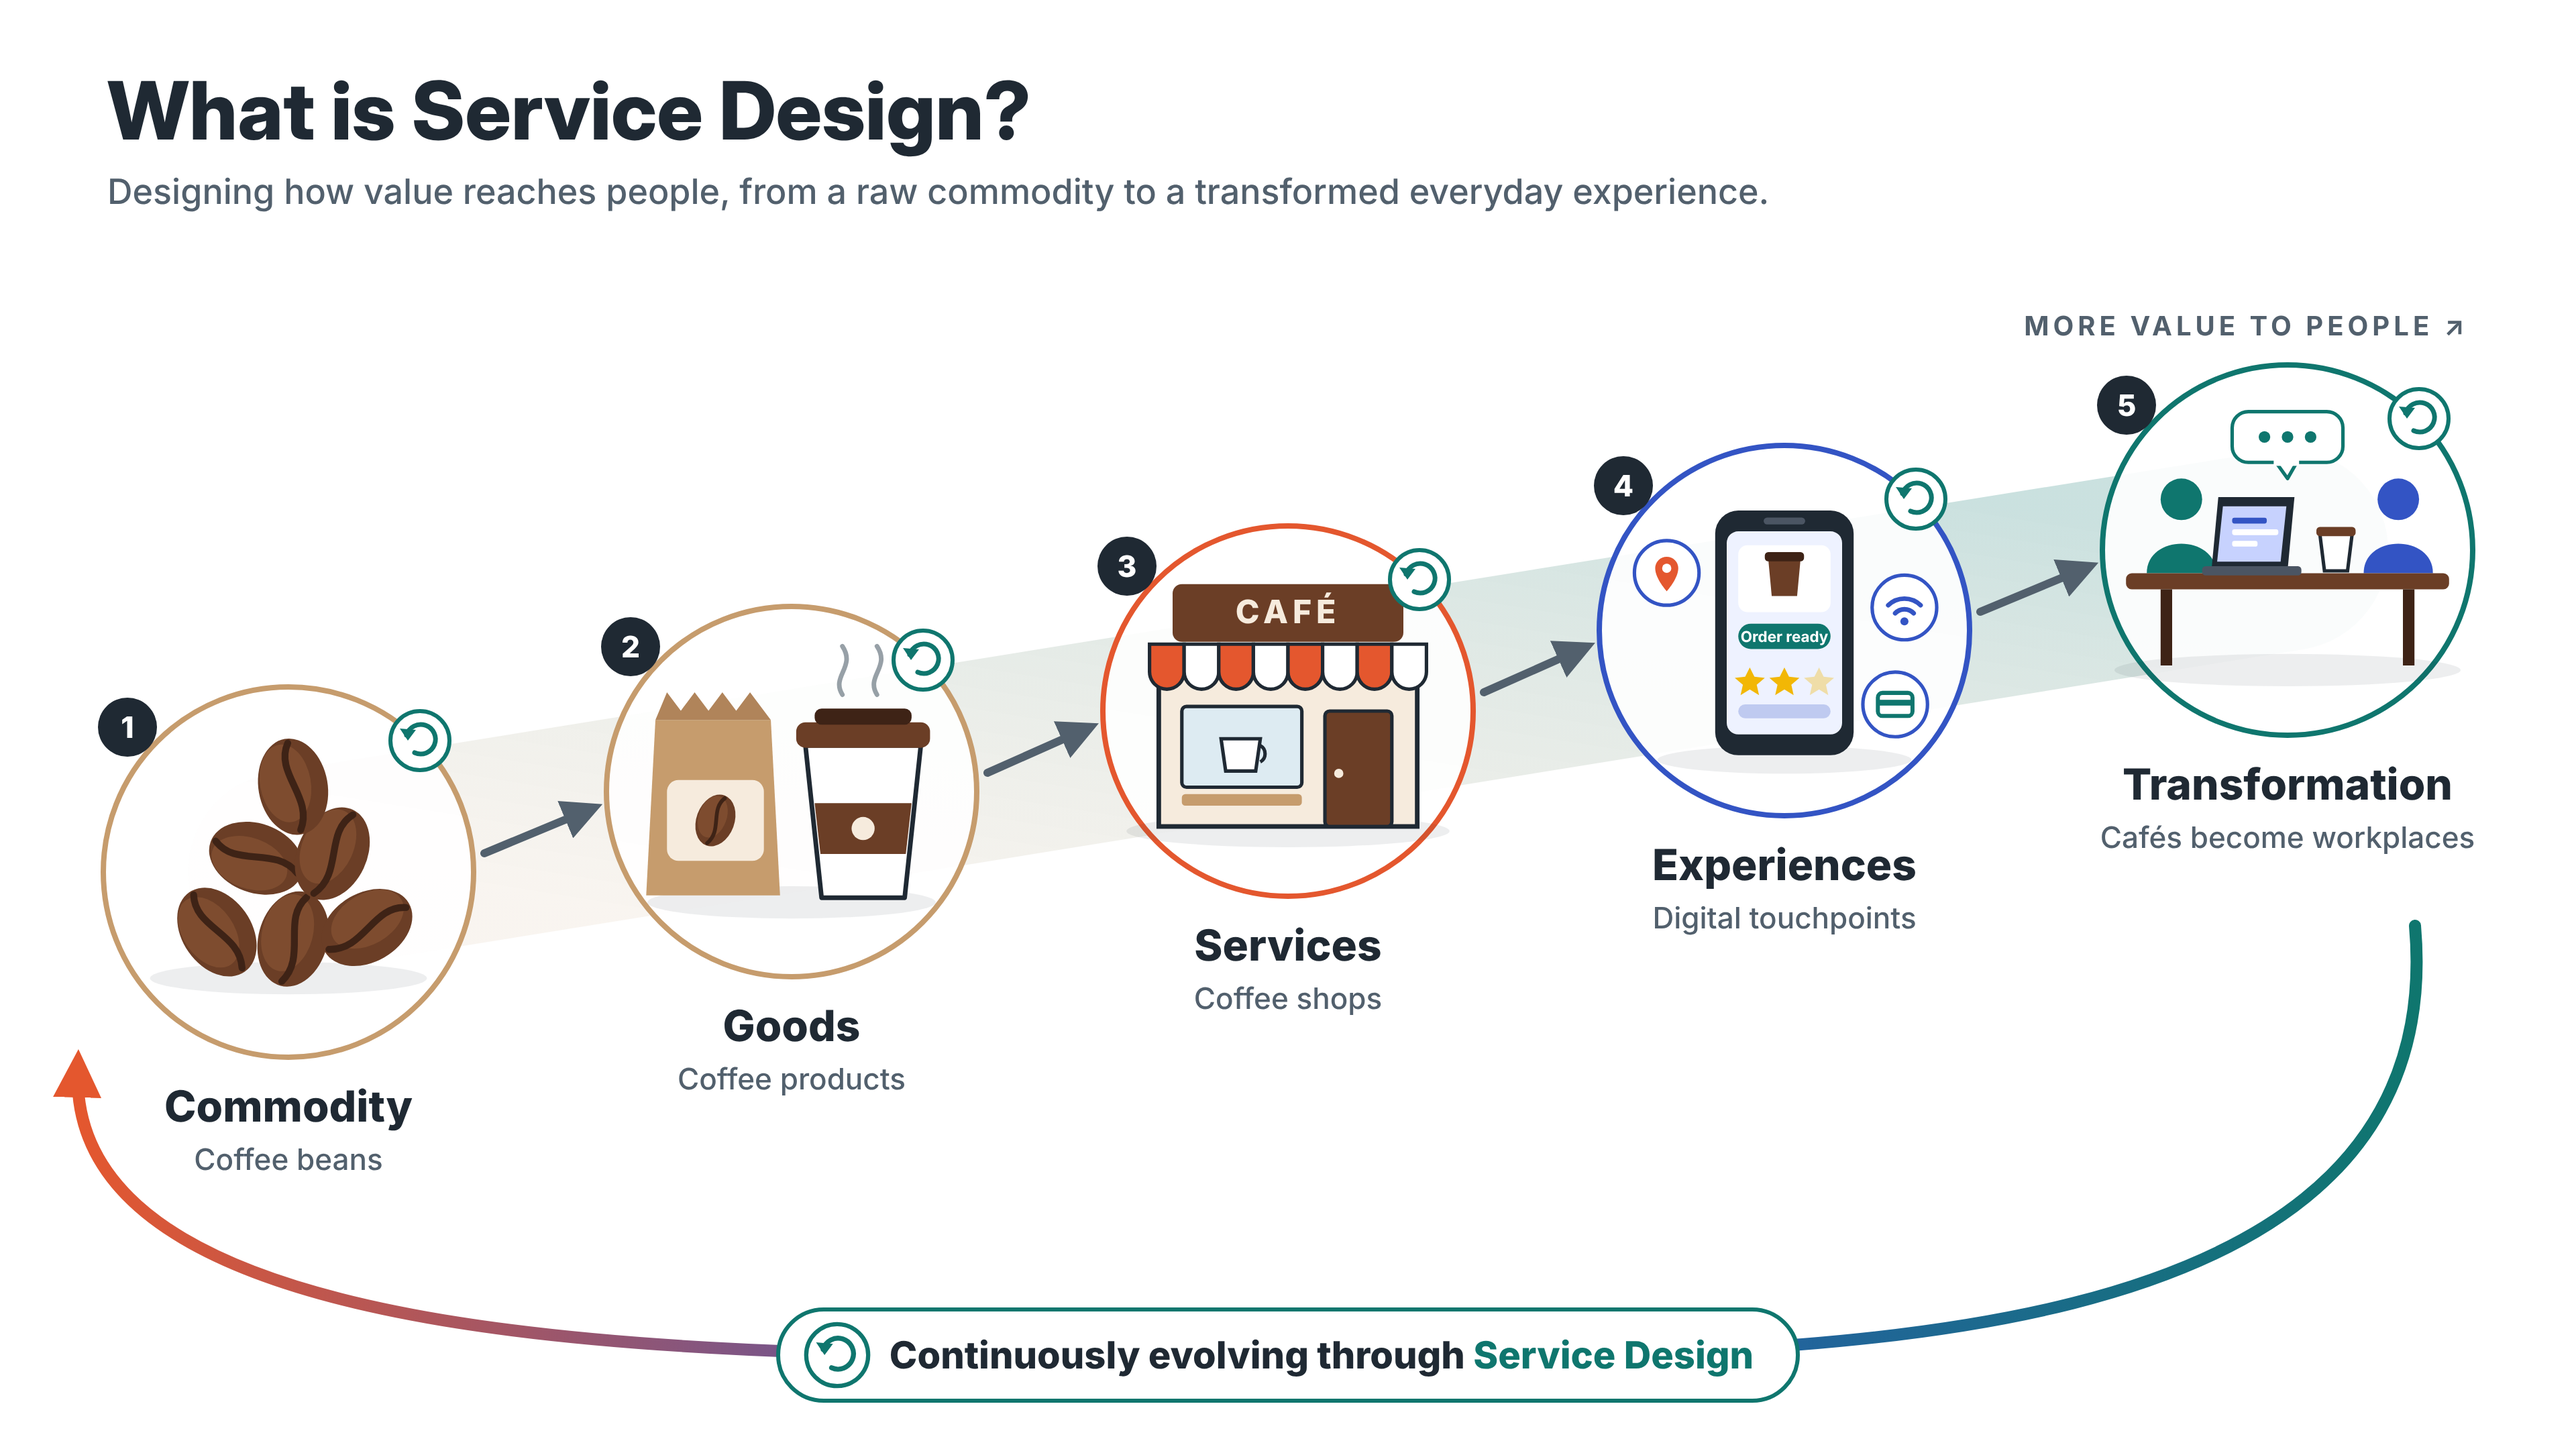
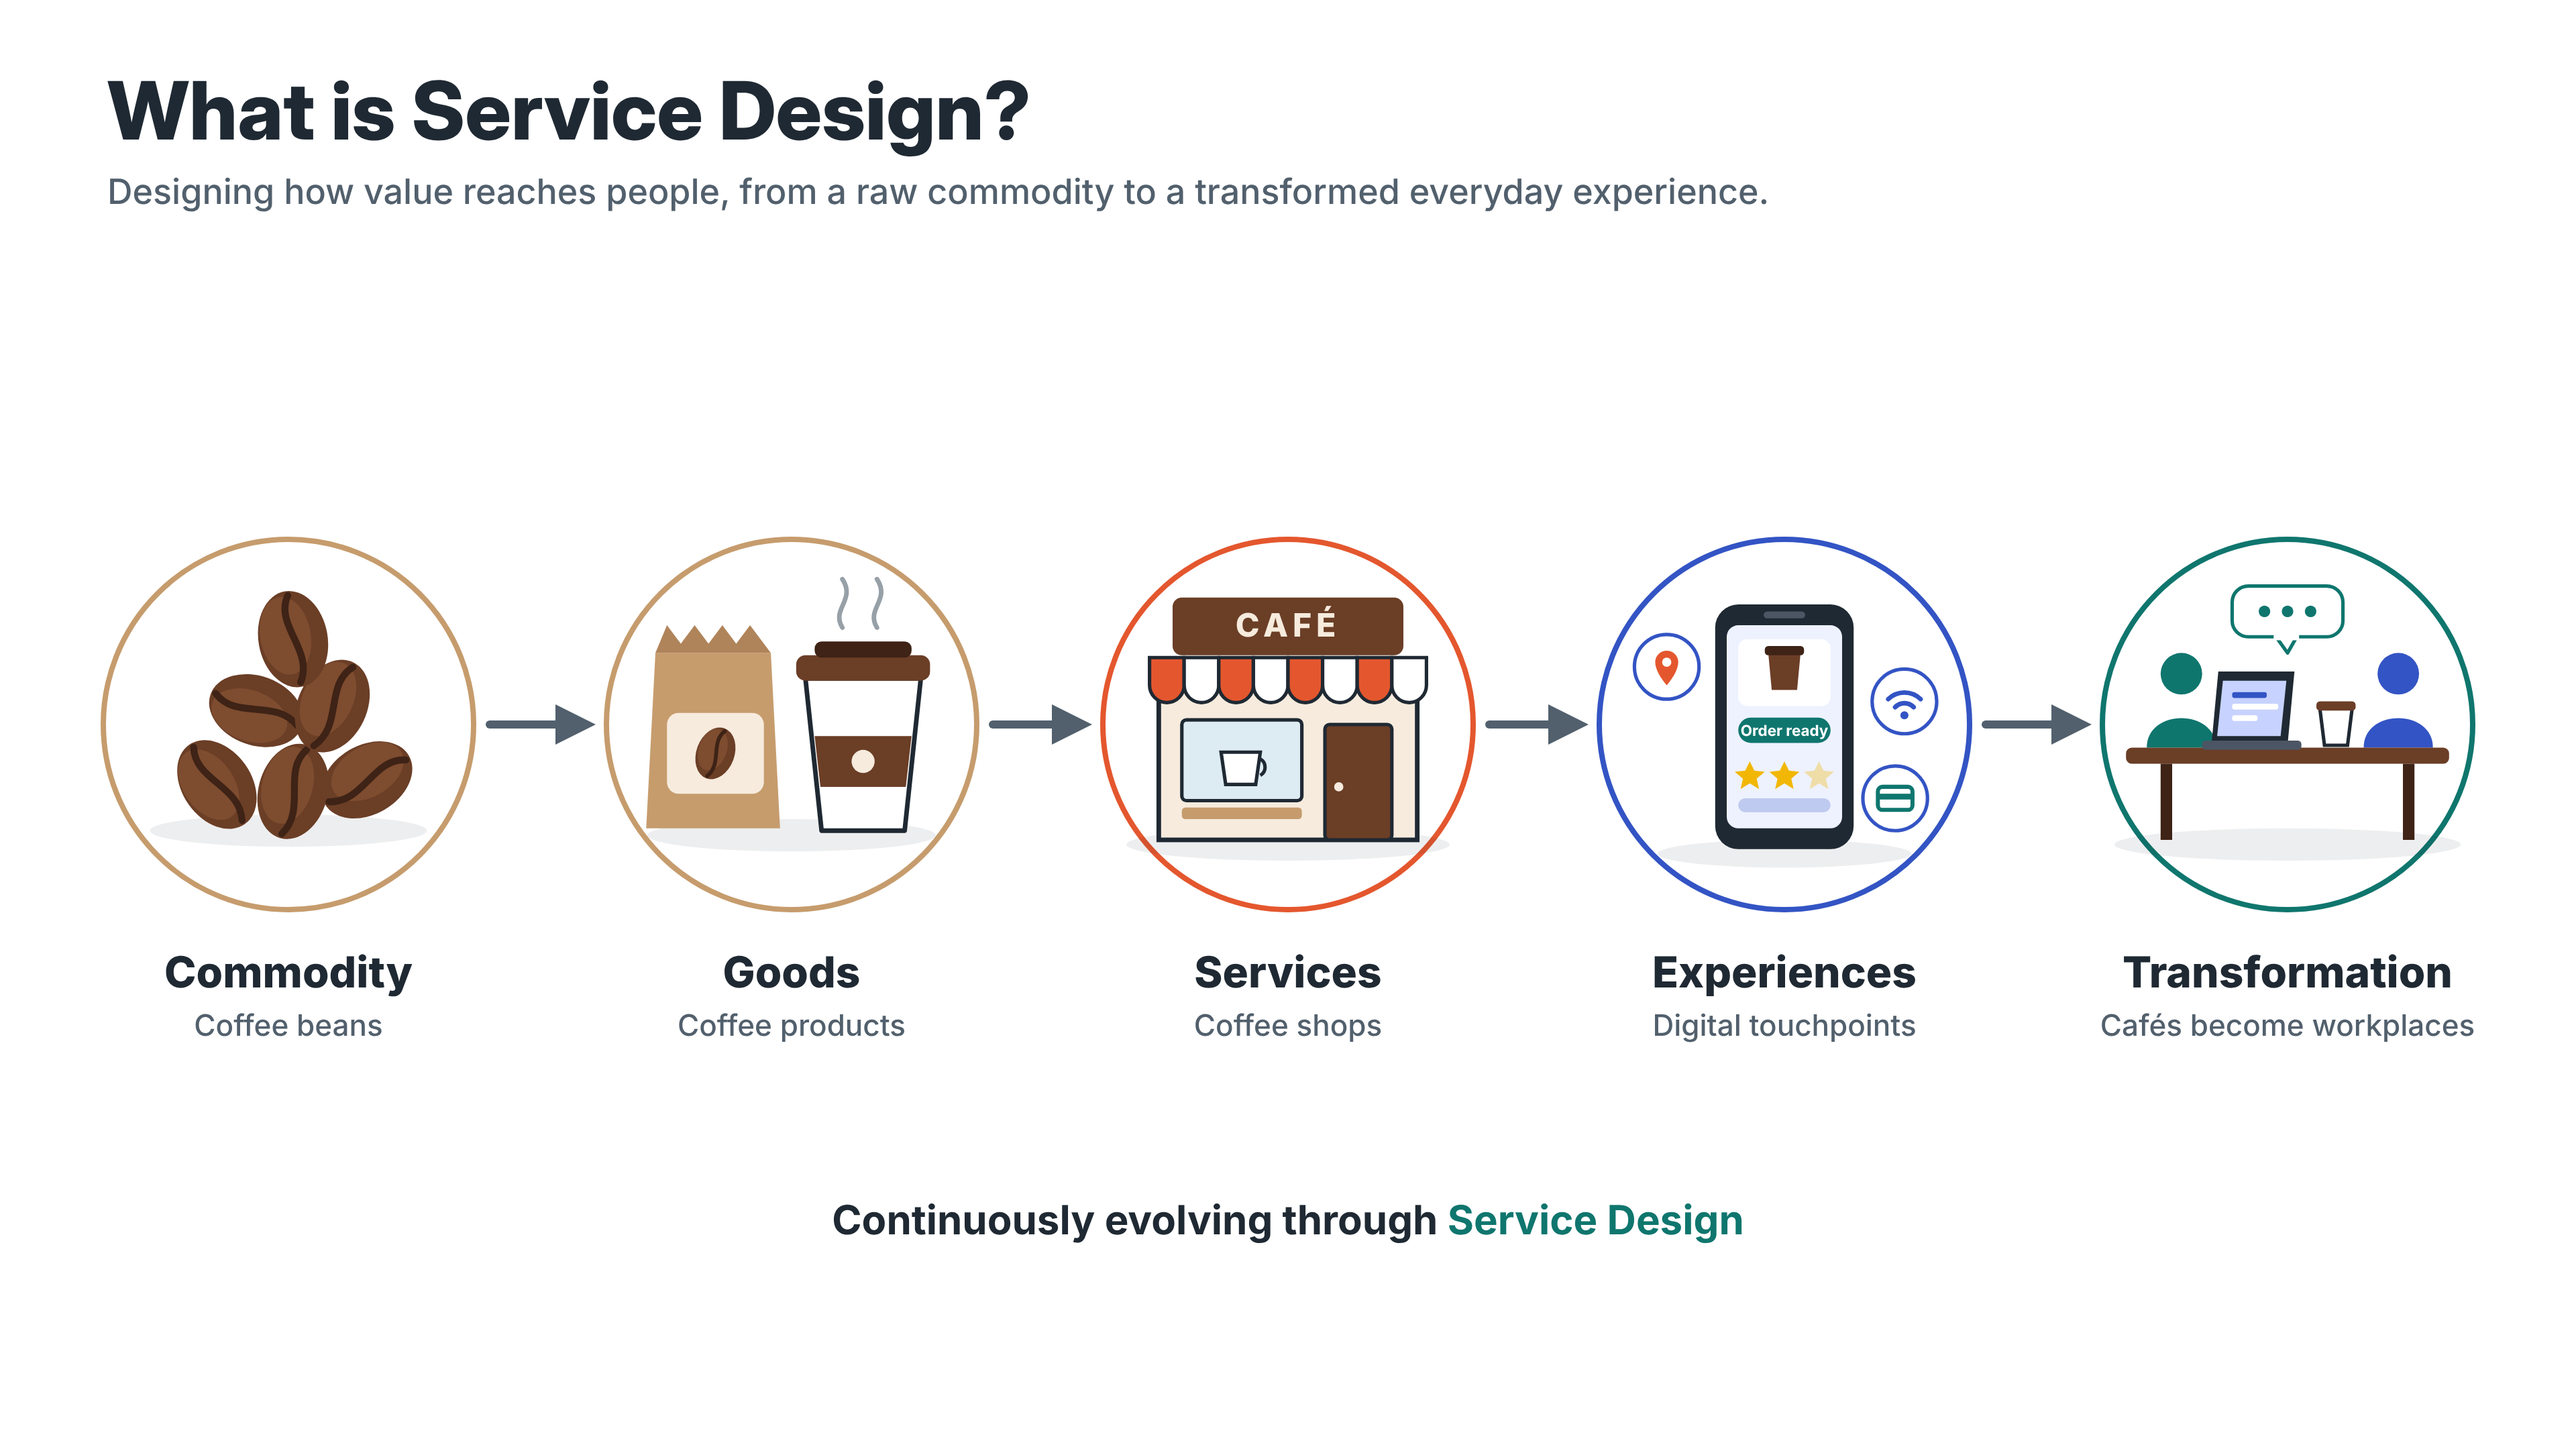
Simplify coffee slide: horizontal layout, remove cycle arrow
Claude-Session: https://claude.ai/code/session_01TKeqHL9nSxZ7eThbPgS4x9

diff --git a/assets/service-design/source/slide1.py b/assets/service-design/source/slide1.py
@@ -169,32 +169,18 @@ xs = [215, 590, 960, 1330, 1705]
 ys = [650, 590, 530, 470, 410]  # icon centre: ascending = more value
 
 body = []
-# rising band
-body.append(f'<path d="M{xs[0]},{ys[0]} L{xs[-1]},{ys[-1]}" stroke="url(#rise)" stroke-width="150" stroke-linecap="round"/>')
-
-# value axis label
-body.append(f'<text x="1840" y="250" text-anchor="end" font-family="Inter" font-weight="700" font-size="20" fill="{MUTED}" letter-spacing="3">MORE VALUE TO PEOPLE ↗</text>')
-
+ys = [540] * 5
 for i, (t, sub, icon) in enumerate(stages):
     x, y = xs[i], ys[i]
-    body.append(f'<circle cx="{x}" cy="{y}" r="138" fill="#FFFFFF" opacity="0.9"/>')
+    body.append(f'<circle cx="{x}" cy="{y}" r="138" fill="#FFFFFF"/>')
     body.append(f'<circle cx="{x}" cy="{y}" r="138" fill="none" stroke="{[CARAMEL, CARAMEL, CORAL, BLUE, TEAL][i]}" stroke-width="4"/>')
     body.append(f'<g transform="translate({x},{y}) scale(0.86)">{icon}</g>')
-    body.append(f'<use href="#cycle" transform="translate({x+98},{y-98})"/>')
-    body.append(f'<text x="{x}" y="{y+186}" text-anchor="middle" font-family="Inter" font-weight="800" font-size="32" fill="{INK}">{t}</text>')
-    body.append(f'<text x="{x}" y="{y+222}" text-anchor="middle" font-family="Inter" font-weight="500" font-size="22" fill="{MUTED}">{sub}</text>')
-    body.append(f'<circle cx="{x-120}" cy="{y-108}" r="22" fill="{INK}"/>')
-    body.append(f'<text x="{x-120}" y="{y-100}" text-anchor="middle" font-family="Inter" font-weight="800" font-size="22" fill="#fff">{i+1}</text>')
+    body.append(f'<text x="{x}" y="{y+196}" text-anchor="middle" font-family="Inter" font-weight="800" font-size="32" fill="{INK}">{t}</text>')
+    body.append(f'<text x="{x}" y="{y+232}" text-anchor="middle" font-family="Inter" font-weight="500" font-size="22" fill="{MUTED}">{sub}</text>')
     if i < 4:
-        x1, y1 = x + 146, y - 14
-        x2, y2 = xs[i+1] - 152, ys[i+1] + 14
-        body.append(f'<path d="M{x1},{y1} L{x2},{y2}" stroke="{MUTED}" stroke-width="6" fill="none" stroke-linecap="round" marker-end="url(#ah)"/>')
+        body.append(f'<path d="M{x+150},{y} L{xs[i+1]-158},{y}" stroke="{MUTED}" stroke-width="6" fill="none" stroke-linecap="round" marker-end="url(#ah)"/>')
 
-# continuous evolution loop
-body.append(f'<path d="M1800,690 C1830,1030 1300,1010 960,1010 C620,1010 52,1030 58,800" stroke="url(#loop)" stroke-width="9" fill="none" stroke-linecap="round" marker-end="url(#ahLoop)"/>')
-body.append(f'<rect x="580" y="976" width="760" height="68" rx="34" fill="#FFFFFF" stroke="{TEAL}" stroke-width="3"/>')
-body.append(f'<use href="#cycle" transform="translate(624,1010) scale(1.05)"/>')
-body.append(f'<text x="985" y="1020" text-anchor="middle" font-family="Inter" font-weight="800" font-size="28" fill="{INK}">Continuously evolving through <tspan fill="{TEAL}">Service Design</tspan></text>')
+body.append(f'<text x="960" y="920" text-anchor="middle" font-family="Inter" font-weight="700" font-size="30" fill="{INK}">Continuously evolving through <tspan fill="{TEAL}">Service Design</tspan></text>')
 
 # title
 body.append(f'<text x="80" y="104" font-family="Inter Display, Inter" font-weight="800" font-size="60" fill="{INK}">What is Service Design?</text>')
